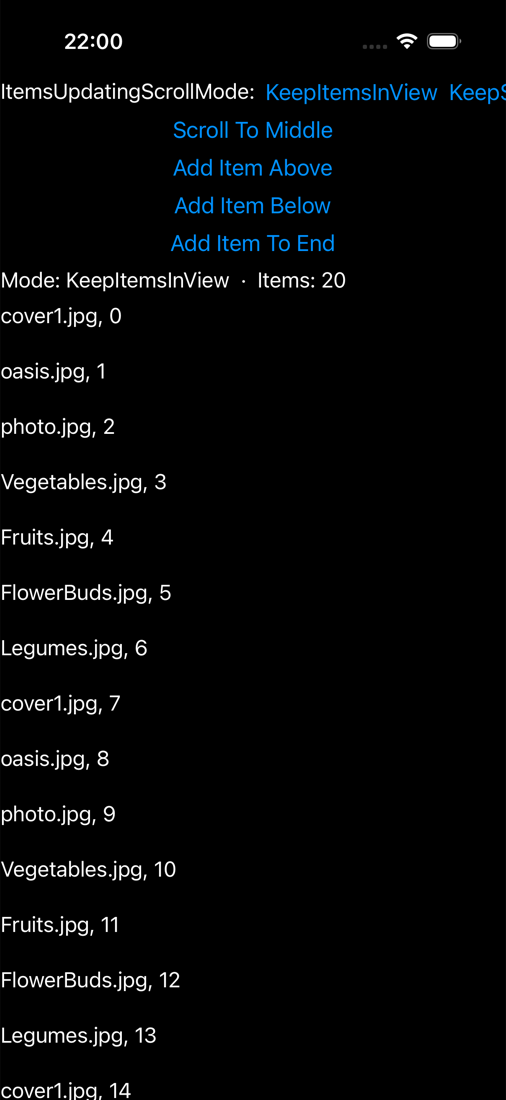
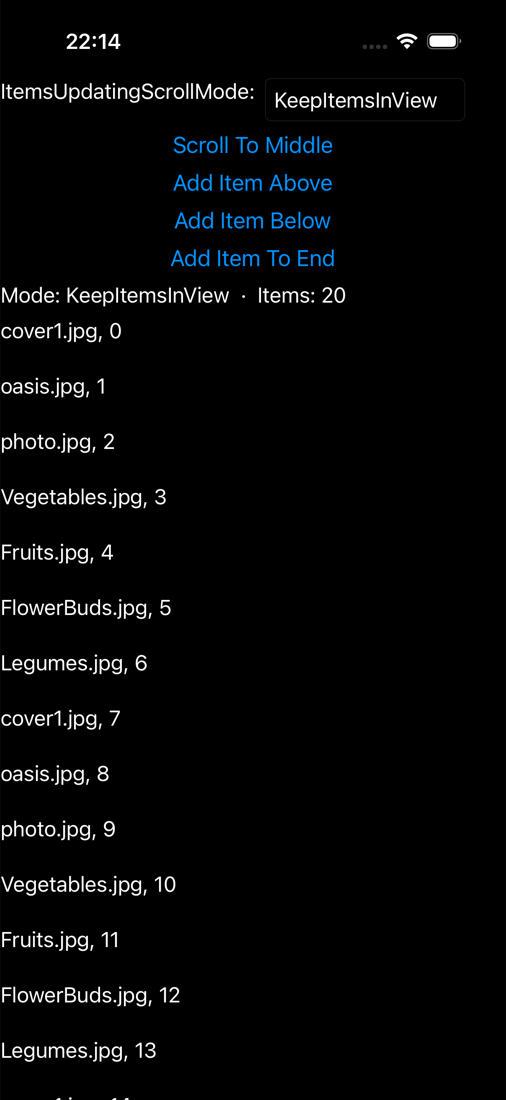
fix(samples,parity): scroll_mode_test uses a Picker for the mode selector
The page replaced the C# EnumSelector<ItemsUpdatingScrollMode> (Label + Picker)
with three side-by-side mode buttons — a deviation justified when no picker
existed — which overflowed the row on iOS ('KeepItemsInView  KeepS…', a second
value clipped at the edge). The picker control now exists, so restore the
faithful EnumSelector: a caption + a maui::controls::picker over the 3 mode
values whose SelectedIndexChanged gets/sets ItemsUpdatingScrollMode. Now shows a
single current value, matching MAUI. scroll_mode_test diff→minor (residual: the
port's picker has a RoundedRect border + black text vs MAUI's borderless blue).
Diff 24→22.

diff --git a/port/cpp/src/samples/pages/scroll_mode_test_page.hpp b/port/cpp/src/samples/pages/scroll_mode_test_page.hpp
@@ -28,9 +28,10 @@
 //     (DemoFilteredItemSource.Items), seeded with 20 items cycling the demo image-name captions;
 //   - the PhotoTemplate stand-in is a Label bound to test_item.caption (note: the C# PhotoTemplate is an
 //     image + caption Grid; the headless sim measures the displayable caption text);
-//   - set_items_updating_scroll_mode wires the mode; the EnumSelector is replaced by three explicit mode
-//     buttons (KeepItemsInView / KeepScrollOffset / KeepLastItemInView), since there is no headless-safe
-//     EnumPicker/EnumSelector control on the surface (note:) — same get/set of ItemsUpdatingScrollMode;
+//   - set_items_updating_scroll_mode wires the mode; the EnumSelector is a caption Label + a Picker over the
+//     three ItemsUpdatingScrollMode values (KeepItemsInView / KeepScrollOffset / KeepLastItemInView) whose
+//     SelectedIndexChanged gets/sets ItemsUpdatingScrollMode — the faithful EnumSelector<T> shape (a single
+//     value shown, matching MAUI, rather than three side-by-side buttons that overflow the row);
 //   - scroll_to_middle()/add_item_above()/add_item_below()/add_item_to_end() reproduce the four C# handlers
 //     verbatim (ScrollTo with Start/no-animate; the two positional Inserts; the Add). The ScrollTo request
 //     is observed through the collection_view's scroll_to_requested event into a readout (the
@@ -53,6 +54,8 @@
 #include "maui/controls/items/linear_items_layout.hpp"
 #include "maui/controls/items/scroll_to_request_event_args.hpp"
 #include "maui/controls/label.hpp"
+#include "maui/controls/observable_collection.hpp"
+#include "maui/controls/picker.hpp"
 #include "maui/controls/scroll_to_position.hpp"
 #include "maui/controls/templates/data_template.hpp"
 #include "maui/controls/vertical_stack_layout.hpp"
@@ -78,23 +81,20 @@ namespace maui::samples
             page_.set_title("ScrollModeTest Gallery");
             root_.set_spacing(8);
 
-            // ---- the EnumSelector stand-in: caption + three mode buttons (gets/sets
-            // ItemsUpdatingScrollMode — note) ----
+            // ---- the EnumSelector: caption + a Picker over the three ItemsUpdatingScrollMode values
+            // (the C# code-behind adds an EnumSelector<ItemsUpdatingScrollMode> = a Label + a Picker that
+            // gets/sets _collectionView.ItemsUpdatingScrollMode). The Picker's SelectedIndexChanged drives
+            // set_mode; index 0 (KeepItemsInView) is the initial selection. ----
             mode_caption_.set_text("ItemsUpdatingScrollMode:");
-            keep_items_button_.set_text("KeepItemsInView");
-            keep_offset_button_.set_text("KeepScrollOffset");
-            keep_last_button_.set_text("KeepLastItemInView");
-            keep_items_button_.clicked.connect(
-                [this] { set_mode(maui::controls::items_updating_scroll_mode::keep_items_in_view); });
-            keep_offset_button_.clicked.connect(
-                [this] { set_mode(maui::controls::items_updating_scroll_mode::keep_scroll_offset); });
-            keep_last_button_.clicked.connect(
-                [this] { set_mode(maui::controls::items_updating_scroll_mode::keep_last_item_in_view); });
+            mode_items_->add("KeepItemsInView");
+            mode_items_->add("KeepScrollOffset");
+            mode_items_->add("KeepLastItemInView");
+            mode_picker_.set_items_source(mode_items_);
+            mode_picker_.set_selected_index(0); // KeepItemsInView (the default mode_)
+            mode_picker_.selected_index_changed.connect([this] { on_mode_picked(); });
             mode_bar_.set_spacing(8);
             mode_bar_.add(mode_caption_);
-            mode_bar_.add(keep_items_button_);
-            mode_bar_.add(keep_offset_button_);
-            mode_bar_.add(keep_last_button_);
+            mode_bar_.add(mode_picker_);
 
             // ---- rows 1–4: the four action buttons (verbatim C# AutomationId text) ----
             scroll_to_middle_.set_text("Scroll To Middle");
@@ -146,9 +146,7 @@ namespace maui::samples
         {
             // mode bar leaves
             gallery_attach_one(app, mode_caption_, "mode_caption_");
-            gallery_attach_one(app, keep_items_button_, "keep_items_button_");
-            gallery_attach_one(app, keep_offset_button_, "keep_offset_button_");
-            gallery_attach_one(app, keep_last_button_, "keep_last_button_");
+            gallery_attach_one(app, mode_picker_, "mode_picker_");
             gallery_attach_one(app, mode_bar_, "mode_bar_");
             // remaining root children + the root + page
             gallery_attach_one(app, scroll_to_middle_, "scroll_to_middle_");
@@ -283,6 +281,23 @@ namespace maui::samples
             return "KeepItemsInView";
         }
 
+        // The Picker's SelectedIndexChanged (the EnumSelector setter): map the chosen row to the mode.
+        void on_mode_picked()
+        {
+            switch (mode_picker_.selected_index())
+            {
+                case 1:
+                    set_mode(maui::controls::items_updating_scroll_mode::keep_scroll_offset);
+                    break;
+                case 2:
+                    set_mode(maui::controls::items_updating_scroll_mode::keep_last_item_in_view);
+                    break;
+                default:
+                    set_mode(maui::controls::items_updating_scroll_mode::keep_items_in_view);
+                    break;
+            }
+        }
+
         void update_readout()
         {
             readout_.set_text(std::string{"Mode: "} + mode_name(mode_) +
@@ -296,9 +311,12 @@ namespace maui::samples
         maui::controls::vertical_stack_layout root_;
         maui::controls::horizontal_stack_layout mode_bar_;
         maui::controls::label mode_caption_;
-        maui::controls::button keep_items_button_;
-        maui::controls::button keep_offset_button_;
-        maui::controls::button keep_last_button_;
+        // The EnumSelector's Picker over the three ItemsUpdatingScrollMode values + its backing list
+        // (the picker tracks a maui::controls::observable_collection<std::string>, distinct from the
+        // maui::core::observable_collection the collection_view items use).
+        std::shared_ptr<maui::controls::observable_collection<std::string>> mode_items_ =
+            std::make_shared<maui::controls::observable_collection<std::string>>();
+        maui::controls::picker mode_picker_;
         maui::controls::button scroll_to_middle_;
         maui::controls::button add_above_;
         maui::controls::button add_below_;

diff --git a/port/cpp/docs/comparison/README.md b/port/cpp/docs/comparison/README.md
@@ -2,7 +2,7 @@
 
 Theme-matched iOS comparison: each page rendered by **real .NET MAUI** vs the **C++ port**, on the same iPhone 17 simulator, compared **light-vs-light** and **dark-vs-dark**. Both stacks render native-default controls + the system font (the C# app's `dotnet new maui` default `Styles.xaml` + OpenSans are stripped; appearance forced via `MAUI_THEME` / `MAUI_APPEARANCE`). Goal: pixel-perfect parity, fixed example-by-example.
 
-**Progress: 48 / 172 🟢 matched** · 99 🟡 minor · 25 🔴 diff · 0 ⬜ pending
+**Progress: 48 / 172 🟢 matched** · 100 🟡 minor · 24 🔴 diff · 0 ⬜ pending
 
 **Flags: 9 ⚠ broken MAUI reference captures (re-shoot needed) · 14 🎬 motion/effect pages needing an animated GIF to judge.**
 
@@ -109,7 +109,7 @@ Rows are in **fix order** (top → bottom): foundational single controls first (
 | 93 | Switch Grouping | 🟡<br>L:minor<br>D:minor | ![](csharp_ios_light/switch_grouping.png) | ![](cpp_ios_light/switch_grouping.png) | ![](csharp_ios_dark/switch_grouping.png) | ![](cpp_ios_dark/switch_grouping.png) |
 | 94 | Some Empty Groups | 🟡<br>L:minor<br>D:minor | ![](csharp_ios_light/some_empty_groups.png) | ![](cpp_ios_light/some_empty_groups.png) | ![](csharp_ios_dark/some_empty_groups.png) | ![](cpp_ios_dark/some_empty_groups.png) |
 | 95 | Scroll To Group | 🟡<br>L:minor<br>D:minor | ![](csharp_ios_light/scroll_to_group.png) | ![](cpp_ios_light/scroll_to_group.png) | ![](csharp_ios_dark/scroll_to_group.png) | ![](cpp_ios_dark/scroll_to_group.png) |
-| 96 | Scroll Mode Test | 🔴<br>L:diff<br>D:diff | ![](csharp_ios_light/scroll_mode_test.png) | ![](cpp_ios_light/scroll_mode_test.png) | ![](csharp_ios_dark/scroll_mode_test.png) | ![](cpp_ios_dark/scroll_mode_test.png) |
+| 96 | Scroll Mode Test | 🟡<br>L:minor<br>D:minor | ![](csharp_ios_light/scroll_mode_test.png) | ![](cpp_ios_light/scroll_mode_test.png) | ![](csharp_ios_dark/scroll_mode_test.png) | ![](cpp_ios_dark/scroll_mode_test.png) |
 | 97 | Adaptive Collection | 🟡<br>L:minor<br>D:minor | ![](csharp_ios_light/adaptive_collection.png) | ![](cpp_ios_light/adaptive_collection.png) | ![](csharp_ios_dark/adaptive_collection.png) | ![](cpp_ios_dark/adaptive_collection.png) |
 | 98 | Staggered Layout | 🔴<br>L:diff<br>D:diff | ![](csharp_ios_light/staggered_layout.png) | ![](cpp_ios_light/staggered_layout.png) | ![](csharp_ios_dark/staggered_layout.png) | ![](cpp_ios_dark/staggered_layout.png) |
 | 99 | Varied Size Selector | 🔴<br>L:diff<br>D:diff | ![](csharp_ios_light/varied_size_selector.png) | ![](cpp_ios_light/varied_size_selector.png) | ![](csharp_ios_dark/varied_size_selector.png) | ![](cpp_ios_dark/varied_size_selector.png) |
@@ -571,9 +571,9 @@ Concrete, per-theme notes for every page with a diff, a broken reference, or a m
 - **Light:** Both render the full form: 'Group:'/'Item:' entries pre-filled '0', a blue 'Go', 'Group Name:'/'Item Name:' entries (empty), a second blue 'Go', the 'No scroll requested yet' status, and the grouped list below starting at green 'Avengers'. All controls and text present and correctly placed. Only difference is C++'s taller row spacing in the list (MAUI reaches 'Black Widow', C++ reaches 'Mockingbird' but with far more whitespace per row).
 - **Dark:** Same as light: all form controls (two entries pre-set to 0, two empty name entries, two Go buttons, status text) and the grouped list render correctly and in the right positions; only difference is C++'s taller list row spacing.
 
-### 96. Scroll Mode Test — 🔴 (L:diff / D:diff)
-- **Light:** Both render the same controls ('ItemsUpdatingScrollMode:' label, 'Scroll To Middle', 'Add Item Above', 'Add Item Below', 'Add Item To End' buttons, 'Mode: KeepItemsInView · Items: 20', then the image-name list cover1.jpg,0 / oasis.jpg,1 ...). Real diff: in C++ the picker value to the right of the label is rendered TWICE — it shows 'KeepItemsInView  KeepS...' (a second copy that runs off the right edge), whereas MAUI shows a single 'KeepItemsInView'. C++ list rows are also noticeably taller-spaced.
-- **Dark:** Same as light: controls and list content match, but the picker value is duplicated in C++ ('KeepItemsInView' followed by a second truncated 'KeepS...' off the right edge) vs MAUI's single 'KeepItemsInView'; C++ also uses taller list row spacing.
+### 96. Scroll Mode Test — 🟡 (L:minor / D:minor)
+- **Light:** FIXED: the ItemsUpdatingScrollMode selector now renders as a single Picker showing the current value ('KeepItemsInView'), matching MAUI's EnumSelector (caption + picker) — was three side-by-side mode buttons that overflowed the row ('KeepItemsInView  KeepS…'). Residual minor: the port's picker shows the value in a RoundedRect-bordered black field, vs MAUI's borderless blue picker text.
+- **Dark:** Same as light — single picker value (was overflowing buttons). Residual minor: picker border/text-color style vs MAUI's borderless picker.
 
 ### 97. Adaptive Collection — 🟡 (L:minor / D:minor)
 - **Light:** Both show 'Layout: Linear (single column)' header and Item 1..8. In MAUI each 'Item N' label is horizontally CENTERED with large vertical spacing; in C++ each item is LEFT-aligned and tightly spaced (all 8 visible at once). Same content & structure, only item alignment + row spacing differ. MAUI also wraps content in the harness white card; C++ fills the screen.
